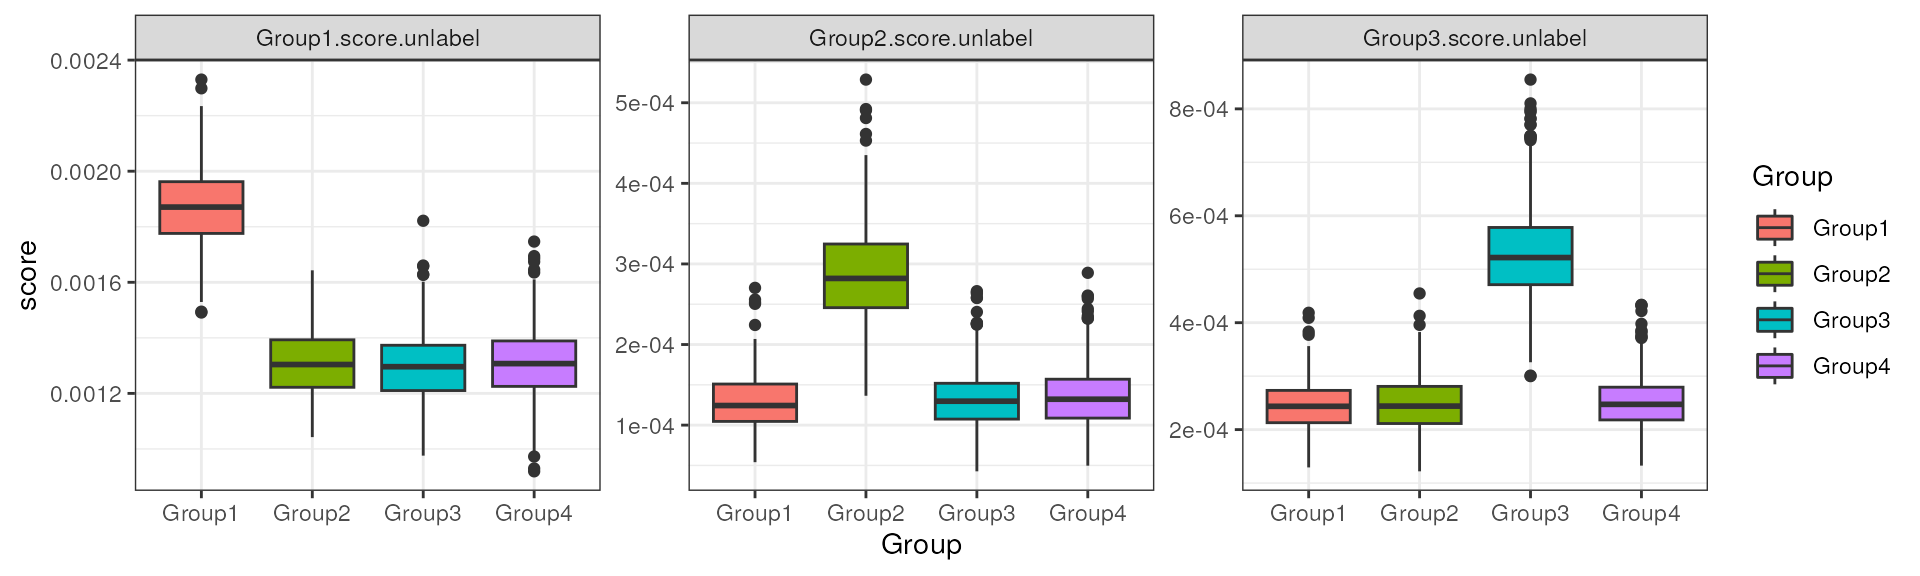
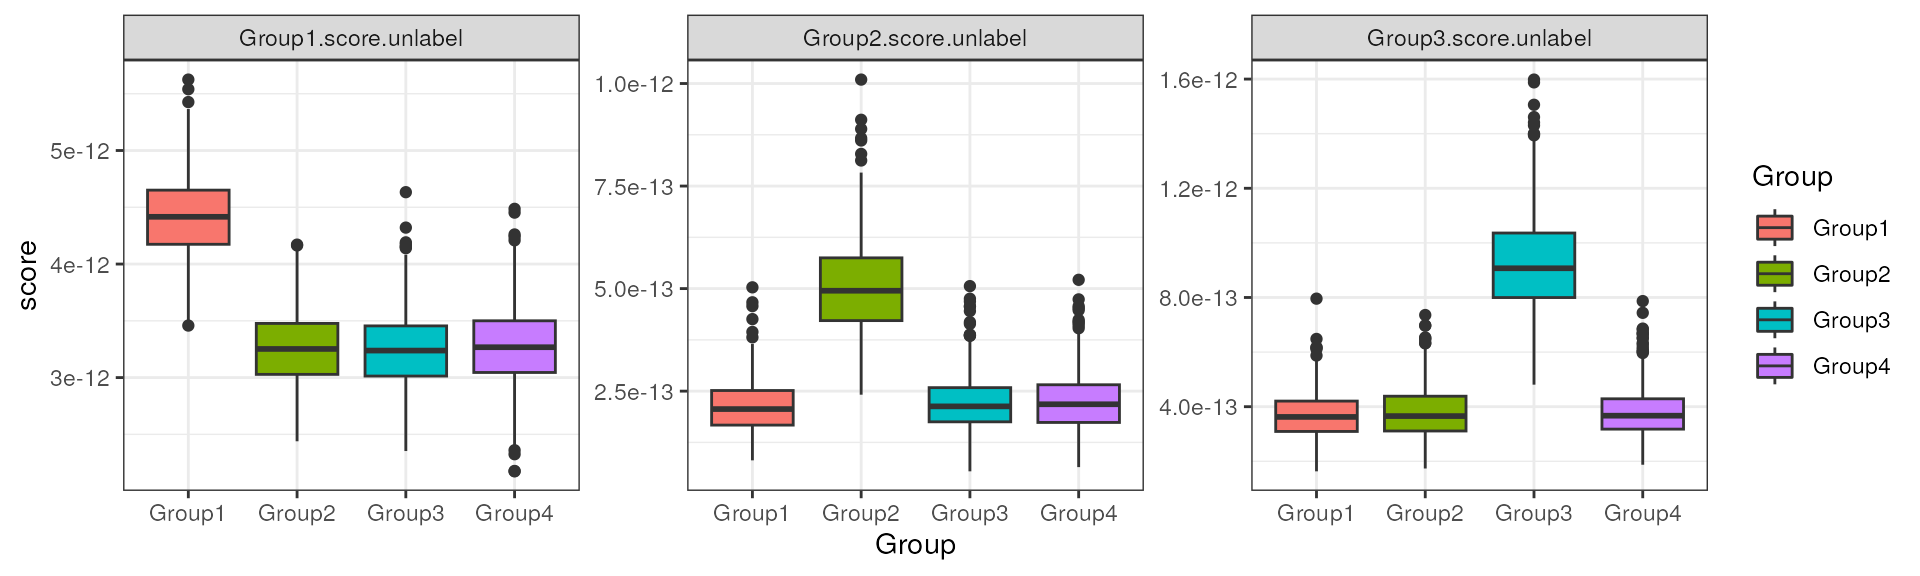
Deploying to gh-pages from @ DavisLaboratory/smartid@40390eaae6d5b5797ca767cd1bad2e35029c2fe1 🚀

diff --git a/articles/smartid_Demo.html b/articles/smartid_Demo.html
@@ -89,7 +89,7 @@ Biology, University of Melbourne, Parkville, VIC 3010,
 Australia<br><a class="author_email" href="mailto:#"></a><a href="mailto:chen.j@wehi.edu.au" class="email">chen.j@wehi.edu.au</a>
       </address>
                   
-            <h4 data-toc-skip class="date">26 Mar 2024</h4>
+            <h4 data-toc-skip class="date">28 Mar 2024</h4>
       
       <small class="dont-index">Source: <a href="https://github.com/DavisLaboratory/smartid/blob/HEAD/vignettes/smartid_Demo.Rmd" class="external-link"><code>vignettes/smartid_Demo.Rmd</code></a></small>
       <div class="hidden name"><code>smartid_Demo.Rmd</code></div>
@@ -233,21 +233,22 @@ each function, e.g. <code>?smartid:::idf</code>.</p>
 <span class="math inline">\(\mathbf{IDF_i} =
 log(1+\frac{n}{n_i+1}),\)</span> <span class="math inline">\(\mathbf{IAE_i} = log(1+\frac{n}{\hat
 N_{i,j}+1})\)</span></p>
-<p><span class="math inline">\(\mathbf{where\ N_{i,j}\ is\ the\ counts\
-of\ feature\ i\ in\ cell\ j;\ \hat N_{i,j}\ is\ max(0,\ N_{i,j} -
-threshold)};\)</span> <span class="math inline">\(\mathbf{\ n\ is\
-total\ counts\ of\ documents(cells);\ n_i\ is\ \sum_{j = 1}^{n}
-sign(N_{i,j} &gt; threshold)}\)</span></p>
+<p>Where <span class="math inline">\(N_{i,j}\)</span> is the counts of
+feature <span class="math inline">\(i\)</span> in cell <span class="math inline">\(j\)</span>; <span class="math inline">\(\hat
+N_{i,j}\)</span> is <span class="math inline">\(max(0,N_{i,j}-threshold)\)</span>; <span class="math inline">\(n\)</span> is the total number of
+documents(cells); <span class="math inline">\(n_i\)</span> is <span class="math inline">\(\sum_{j = 1}^{n} sign(N_{i,j} &gt;
+threshold)\)</span>.</p>
 <p>Here for labeled data, we can choose logTF * IDF_prob * IAE_prob for
 marker identification.</p>
-<p><span class="math inline">\(\mathbf{score}=logTF*IDF_{prob}*IAE_{prob}\)</span></p>
+<p><span class="math display">\[\mathbf{score}=logTF*IDF_{prob}*IAE_{prob}\]</span></p>
 <p>The probability version of IDF can be termed as: <span class="math inline">\(\mathbf{IDF_{i,j}} = log(1+\frac{\frac{n_{i,j\in
 D}}{n_{j\in D}}}{max(\frac{n_{i,j\in \hat D}}{n_{j\in \hat D}})+
 e^{-8}}\frac{n_{i,j\in D}}{n_{j\in D}})\)</span></p>
 <p>And the probability version of IAE can be termed as: <span class="math inline">\(\mathbf{IAE_{i,j}} = log(1+\frac{mean(N_{i,j\in
 D})}{max(mean(N_{i,j\in \hat D}))+ e^{-8}}*mean(N_{i,j\in D}))\)</span>
-<span class="math inline">\(where\ D\ is\ the\ category\ of\ cell\ j;\
-\hat D\ is\ the\ category\ other\ than\ D.\)</span></p>
+Where <span class="math inline">\(D\)</span> is the category of cell
+<span class="math inline">\(j\)</span>; <span class="math inline">\(\hat
+D\)</span> is the category other than <span class="math inline">\(D\)</span>.</p>
 <p>TF here stands for gene frequency, which is similar to CPM, while IDF
 represents the inverse cell/sample frequency for scRNA-seq data, and IAE
 is the inverse average expression of each gene across all cells or cells
@@ -268,7 +269,7 @@ quite fast.</p>
 <span>  <span class="op">)</span></span>
 <span><span class="op">)</span></span>
 <span><span class="co">#&gt;    user  system elapsed </span></span>
-<span><span class="co">#&gt;   0.202   0.008   0.210</span></span>
+<span><span class="co">#&gt;   0.197   0.004   0.201</span></span>
 <span></span>
 <span><span class="co">## score and tf,idf,iae all saved</span></span>
 <span><span class="fu"><a href="https://rdrr.io/pkg/SummarizedExperiment/man/SummarizedExperiment-class.html" class="external-link">assays</a></span><span class="op">(</span><span class="va">data_sim</span><span class="op">)</span></span>
@@ -454,10 +455,10 @@ group.</p>
 score methods with no need for label information.</p>
 <p>Here we choose logTF * IDF_sd * IAE_sd for for gene-set scoring as a
 use case.</p>
-<p><span class="math inline">\(\mathbf{score}=logTF*IDF_{sd}*IAE_{sd}\)</span></p>
-<p><span class="math inline">\(where\ \mathbf{IDF} =
-log(1+sd(N_{i})*\frac{n}{n_i+1}),\)</span> <span class="math inline">\(\mathbf{IAE} =
-log(1+sd(N_{i})*\frac{n}{\sum_{j=1}^{n}N_{i,j}+1})\)</span></p>
+<p><span class="math display">\[\mathbf{score}=logTF*IDF_{sd}*IAE_{sd}\]</span></p>
+<p>Where <span class="math inline">\(\mathbf{IDF_i} =
+log(1+SD(TF_{i})*\frac{n}{n_i+1})\)</span>, <span class="math inline">\(\mathbf{IAE_i} =
+log(1+SD(TF_{i})*\frac{n}{\sum_{j=1}^{n}N_{i,j}+1})\)</span></p>
 <div class="section level3">
 <h3 id="score-samples-1">Score Samples<a class="anchor" aria-label="anchor" href="#score-samples-1"></a>
 </h3>
@@ -476,7 +477,7 @@ need for data pre-processing, which is quite convenient and fast.</p>
 <span>  <span class="op">)</span></span>
 <span><span class="op">)</span></span>
 <span><span class="co">#&gt;    user  system elapsed </span></span>
-<span><span class="co">#&gt;   0.149   0.007   0.157</span></span>
+<span><span class="co">#&gt;   0.181   0.016   0.197</span></span>
 <span></span>
 <span><span class="co">## new score is saved and tf,idf,iae all updated</span></span>
 <span><span class="fu"><a href="https://rdrr.io/pkg/SummarizedExperiment/man/SummarizedExperiment-class.html" class="external-link">assays</a></span><span class="op">(</span><span class="va">data_sim</span><span class="op">)</span></span>
@@ -603,7 +604,7 @@ group from all others.</p>
 <span><span class="co">#&gt;  [73] locfit_1.5-9.9            fs_1.6.3                 </span></span>
 <span><span class="co">#&gt;  [75] grid_4.4.0                tidyr_1.3.1              </span></span>
 <span><span class="co">#&gt;  [77] colorspace_2.1-0          nlme_3.1-164             </span></span>
-<span><span class="co">#&gt;  [79] GenomeInfoDbData_1.2.11   beeswarm_0.4.0           </span></span>
+<span><span class="co">#&gt;  [79] GenomeInfoDbData_1.2.12   beeswarm_0.4.0           </span></span>
 <span><span class="co">#&gt;  [81] BiocSingular_1.19.0       vipor_0.4.7              </span></span>
 <span><span class="co">#&gt;  [83] cli_3.6.2                 rsvd_1.0.5               </span></span>
 <span><span class="co">#&gt;  [85] textshaping_0.3.7         fansi_1.0.6              </span></span>

diff --git a/reference/iae_sd.html b/reference/iae_sd.html
@@ -63,7 +63,7 @@
     </div>
 
     <div id="ref-usage">
-    <div class="sourceCode"><pre class="sourceCode r"><code><span><span class="fu">iae_sd</span><span class="op">(</span><span class="va">expr</span>, features <span class="op">=</span> <span class="cn">NULL</span>, thres <span class="op">=</span> <span class="fl">0</span><span class="op">)</span></span></code></pre></div>
+    <div class="sourceCode"><pre class="sourceCode r"><code><span><span class="fu">iae_sd</span><span class="op">(</span><span class="va">expr</span>, features <span class="op">=</span> <span class="cn">NULL</span>, log <span class="op">=</span> <span class="cn">FALSE</span>, thres <span class="op">=</span> <span class="fl">0</span><span class="op">)</span></span></code></pre></div>
     </div>
 
     <div id="arguments">
@@ -74,6 +74,10 @@
 
 <dt>features</dt>
 <dd><p>vector, feature names or indexes to compute</p></dd>
+
+
+<dt>log</dt>
+<dd><p>logical, if to do log-transformation</p></dd>
 
 
 <dt>thres</dt>
@@ -88,17 +92,20 @@
     </div>
     <div id="details">
     <h2>Details</h2>
-    <p>$$\mathbf{IAE} = log(1+sd(N_{i})*\frac{n}{\sum_{j=1}^{n}N_{i,j}+1})$$</p>
+    <p>$$\mathbf{IAE} = log(1+sd(tf_{i})*\frac{n}{\sum_{j=1}^{n}max(0,N_{i,j})+1})$$
+where \(tf_i\) is the term frequency of feature \(i\), see details in
+<code><a href="tf.html">tf()</a></code>, \(n\) is the total number of cells and \(N_{i,j}\) is the counts
+of feature \(i\) in cell \(j\).</p>
     </div>
 
     <div id="ref-examples">
     <h2>Examples</h2>
     <div class="sourceCode"><pre class="sourceCode r"><code><span class="r-in"><span><span class="va">data</span> <span class="op">&lt;-</span> <span class="fu"><a href="https://rdrr.io/r/base/matrix.html" class="external-link">matrix</a></span><span class="op">(</span><span class="fu"><a href="https://rdrr.io/r/stats/Poisson.html" class="external-link">rpois</a></span><span class="op">(</span><span class="fl">100</span>, <span class="fl">2</span><span class="op">)</span>, <span class="fl">10</span>, dimnames <span class="op">=</span> <span class="fu"><a href="https://rdrr.io/r/base/list.html" class="external-link">list</a></span><span class="op">(</span><span class="fl">1</span><span class="op">:</span><span class="fl">10</span><span class="op">)</span><span class="op">)</span></span></span>
 <span class="r-in"><span><span class="fu">smartid</span><span class="fu">:::</span><span class="fu">iae_sd</span><span class="op">(</span><span class="va">data</span><span class="op">)</span></span></span>
-<span class="r-out co"><span class="r-pr">#&gt;</span>         1         2         3         4         5         6         7         8 </span>
-<span class="r-out co"><span class="r-pr">#&gt;</span> 0.4642937 0.5661016 0.4317557 0.6256180 0.6229501 0.3695086 0.5158592 0.3656119 </span>
-<span class="r-out co"><span class="r-pr">#&gt;</span>         9        10 </span>
-<span class="r-out co"><span class="r-pr">#&gt;</span> 0.4277004 0.6655675 </span>
+<span class="r-out co"><span class="r-pr">#&gt;</span>          1          2          3          4          5          6          7 </span>
+<span class="r-out co"><span class="r-pr">#&gt;</span> 0.02626549 0.03606052 0.02841552 0.03780853 0.03492224 0.02283198 0.02837679 </span>
+<span class="r-out co"><span class="r-pr">#&gt;</span>          8          9         10 </span>
+<span class="r-out co"><span class="r-pr">#&gt;</span> 0.02239204 0.02142708 0.04101447 </span>
 </code></pre></div>
     </div>
   </div>

diff --git a/reference/idf_sd.html b/reference/idf_sd.html
@@ -63,7 +63,7 @@
     </div>
 
     <div id="ref-usage">
-    <div class="sourceCode"><pre class="sourceCode r"><code><span><span class="fu">idf_sd</span><span class="op">(</span><span class="va">expr</span>, features <span class="op">=</span> <span class="cn">NULL</span>, thres <span class="op">=</span> <span class="fl">0</span><span class="op">)</span></span></code></pre></div>
+    <div class="sourceCode"><pre class="sourceCode r"><code><span><span class="fu">idf_sd</span><span class="op">(</span><span class="va">expr</span>, features <span class="op">=</span> <span class="cn">NULL</span>, log <span class="op">=</span> <span class="cn">FALSE</span>, thres <span class="op">=</span> <span class="fl">0</span><span class="op">)</span></span></code></pre></div>
     </div>
 
     <div id="arguments">
@@ -74,6 +74,10 @@
 
 <dt>features</dt>
 <dd><p>vector, feature names or indexes to compute</p></dd>
+
+
+<dt>log</dt>
+<dd><p>logical, if to do log-transformation</p></dd>
 
 
 <dt>thres</dt>
@@ -88,17 +92,20 @@
     </div>
     <div id="details">
     <h2>Details</h2>
-    <p>$$\mathbf{IDF_i} = log(1+sd(N_{i})*\frac{n}{n_i+1})$$</p>
+    <p>$$\mathbf{IDF_i} = log(1+sd(tf_{i})*\frac{n}{n_i+1})$$
+where \(tf_i\) is the term frequency of feature \(i\), see details in
+<code><a href="tf.html">tf()</a></code>, \(n\) is the total number of cells and \(n_i\) is the number of
+cells containing feature \(i\).</p>
     </div>
 
     <div id="ref-examples">
     <h2>Examples</h2>
     <div class="sourceCode"><pre class="sourceCode r"><code><span class="r-in"><span><span class="va">data</span> <span class="op">&lt;-</span> <span class="fu"><a href="https://rdrr.io/r/base/matrix.html" class="external-link">matrix</a></span><span class="op">(</span><span class="fu"><a href="https://rdrr.io/r/stats/Poisson.html" class="external-link">rpois</a></span><span class="op">(</span><span class="fl">100</span>, <span class="fl">2</span><span class="op">)</span>, <span class="fl">10</span>, dimnames <span class="op">=</span> <span class="fu"><a href="https://rdrr.io/r/base/list.html" class="external-link">list</a></span><span class="op">(</span><span class="fl">1</span><span class="op">:</span><span class="fl">10</span><span class="op">)</span><span class="op">)</span></span></span>
 <span class="r-in"><span><span class="fu">smartid</span><span class="fu">:::</span><span class="fu">idf_sd</span><span class="op">(</span><span class="va">data</span><span class="op">)</span></span></span>
-<span class="r-out co"><span class="r-pr">#&gt;</span>         1         2         3         4         5         6         7         8 </span>
-<span class="r-out co"><span class="r-pr">#&gt;</span> 0.8829972 1.1597035 0.8543715 1.0387709 1.1509044 0.7598136 0.7324272 0.7223904 </span>
-<span class="r-out co"><span class="r-pr">#&gt;</span>         9        10 </span>
-<span class="r-out co"><span class="r-pr">#&gt;</span> 0.8580582 0.9308210 </span>
+<span class="r-out co"><span class="r-pr">#&gt;</span>          1          2          3          4          5          6          7 </span>
+<span class="r-out co"><span class="r-pr">#&gt;</span> 0.06191538 0.10035735 0.06957992 0.07781064 0.08512022 0.05712326 0.04502422 </span>
+<span class="r-out co"><span class="r-pr">#&gt;</span>          8          9         10 </span>
+<span class="r-out co"><span class="r-pr">#&gt;</span> 0.05292170 0.05366416 0.06581973 </span>
 </code></pre></div>
     </div>
   </div>

diff --git a/reference/idf_prob.html b/reference/idf_prob.html
@@ -96,7 +96,10 @@
     </div>
     <div id="details">
     <h2>Details</h2>
-    <p>$$\mathbf{IDF_{i,j}} = log(1+\frac{\frac{n_{i,j\in D}}{n_{j\in D}}}{max(\frac{n_{i,j\in \hat D}}{n_{j\in \hat D}})+ e^{-8}}\frac{n_{i,j\in D}}{n_{j\in D}})$$</p>
+    <p>$$\mathbf{IDF_{i,j}} = log(1+\frac{\frac{n_{i,j\in D}}{n_{j\in D}}}{max(\frac{n_{i,j\in \hat D}}{n_{j\in \hat D}})+ e^{-8}}\frac{n_{i,j\in D}}{n_{j\in D}})$$
+where \(n_{i,j\in D}\) is the number of cells containing feature \(i\) in
+class \(D\), \(n_{j\in D}\) is the total number of cells in class \(D\),
+\(\hat D\) is the class except \(D\).</p>
     </div>
 
     <div id="ref-examples">

diff --git a/news/index.html b/news/index.html
@@ -73,6 +73,10 @@
 <h2 class="page-header" data-toc-text="0.99.3" id="smartid-0993">smartid 0.99.3<a class="anchor" aria-label="anchor" href="#smartid-0993"></a></h2>
 <ul><li>Bump R version dependency to &gt;= 4.4 and add details for TF, IDF, IAE functions.</li>
 </ul></div>
+    <div class="section level2">
+<h2 class="page-header" data-toc-text="0.99.4" id="smartid-0994">smartid 0.99.4<a class="anchor" aria-label="anchor" href="#smartid-0994"></a></h2>
+<ul><li>Add details for TF, IDF, IAE functions.</li>
+</ul></div>
   </div>
 
   <div class="col-md-3 hidden-xs hidden-sm" id="pkgdown-sidebar">

diff --git a/reference/iae_m.html b/reference/iae_m.html
@@ -88,7 +88,10 @@
     </div>
     <div id="details">
     <h2>Details</h2>
-    <p>$$\mathbf{IAE_{i,j}} = log(1+\frac{max_{\{i^{'}\in j\}}(n_{i^{'}})}{\sum_{j = 1}^{n} sign(N_{i,j} &gt; threshold)+1})$$</p>
+    <p>$$\mathbf{IAE_{i,j}} = log(1+\frac{max_{\{i^{'}\in j\}}(n_{i^{'}})}{\sum_{j = 1}^{n} max(0, N_{i,j} - threshold)+1})$$
+where \(i\) is the feature \(i\) and \(i^{'}\) is the feature except
+\(i\), \(N_{i,j}\) is the counts of feature \(i\) in cell \(j\), and
+\(n_{i^{'}}\) is \(\sum_{j = 1}^{n} sign(N_{i,j} &gt; threshold)\).</p>
     </div>
 
     <div id="ref-examples">

diff --git a/reference/idf_rf.html b/reference/idf_rf.html
@@ -96,7 +96,10 @@
     </div>
     <div id="details">
     <h2>Details</h2>
-    <p>$$\mathbf{IDF_{i,j}} = log(1+\frac{\frac{n_{i,j\in D}}{n_{j\in D}}}{max(\frac{n_{i,j\in \hat D}}{n_{j\in \hat D}})+ e^{-8}})$$</p>
+    <p>$$\mathbf{IDF_{i,j}} = log(1+\frac{\frac{n_{i,j\in D}}{n_{j\in D}}}{max(\frac{n_{i,j\in \hat D}}{n_{j\in \hat D}})+ e^{-8}})$$
+where \(n_{i,j\in D}\) is the number of cells containing feature \(i\) in
+class \(D\), \(n_{j\in D}\) is the total number of cells in class \(D\),
+\(\hat D\) is the class except \(D\).</p>
     </div>
 
     <div id="ref-examples">

diff --git a/reference/iae_igm.html b/reference/iae_igm.html
@@ -96,7 +96,10 @@
     </div>
     <div id="details">
     <h2>Details</h2>
-    <p>$$\mathbf{IGM_i} = log(1+\lambda\frac{max(mean(N_{i,j\in D})_{k})}{\sum_{k}^{K}(mean(N_{i,j\in D})_{k}*r_{k})+e^{-8}})$$</p>
+    <p>$$\mathbf{IGM_i} = log(1+\lambda\frac{max(mean(N_{i,j\in D})_{k})}{\sum_{k}^{K}(mean(N_{i,j\in D})_{k}*r_{k})+e^{-8}})$$
+where \(\lambda\) is the hyper parameter, \(N_{i,j\in D}\) is the counts
+of feature \(i\) in cell \(j\) within class \(D\), and \(r_k\) is the
+rank of \(mean(N_{i,j\in D})\).</p>
     </div>
 
     <div id="ref-examples">

diff --git a/reference/idf_igm.html b/reference/idf_igm.html
@@ -96,7 +96,10 @@
     </div>
     <div id="details">
     <h2>Details</h2>
-    <p>$$\mathbf{IGM_i} = log(1+\lambda\frac{max(n_{i,j\in D})_{k}}{\sum_{k}^{K}((n_{i,j\in D})_{k}*r_{k})+e^{-8}})$$</p>
+    <p>$$\mathbf{IGM_i} = log(1+\lambda\frac{max(n_{i,j\in D})_{k}}{\sum_{k}^{K}((n_{i,j\in D})_{k}*r_{k})+e^{-8}})$$
+where \(\lambda\) is the hyper parameter, \(n_{i,j\in D}\) is the number
+of cells containing feature \(i\) in class \(D\), \(r_k\) is the rank
+of \(n_{i,j\in D}\).</p>
     </div>
 
     <div id="ref-examples">

diff --git a/reference/iae_prob.html b/reference/iae_prob.html
@@ -96,7 +96,9 @@
     </div>
     <div id="details">
     <h2>Details</h2>
-    <p>$$\mathbf{IAE_{i,j}} = log(1+\frac{mean(N_{i,j\in D})}{max(mean(N_{i,j\in \hat D}))+ e^{-8}}*mean(N_{i,j\in D}))$$</p>
+    <p>$$\mathbf{IAE_{i,j}} = log(1+\frac{mean(N_{i,j\in D})}{max(mean(N_{i,j\in \hat D}))+ e^{-8}}*mean(N_{i,j\in D}))$$
+where \(N_{i,j\in D}\) is the counts of feature \(i\) in cell \(j\)
+within class \(D\), and \(\hat D\) is the class except \(D\).</p>
     </div>
 
     <div id="ref-examples">

diff --git a/reference/idf_m.html b/reference/idf_m.html
@@ -88,7 +88,10 @@
     </div>
     <div id="details">
     <h2>Details</h2>
-    <p>$$\mathbf{IDF_{i,j}} = log(\frac{max_{\{i^{'}\in j\}}(n_{i^{'}})}{n_i+1})$$</p>
+    <p>$$\mathbf{IDF_{i,j}} = log(\frac{max_{\{i^{'}\in j\}}(n_{i^{'}})}{n_i+1})$$
+where \(i\) is the feature \(i\) and \(i^{'}\) is the feature except
+\(i\), \(n_i\) is the number of cells containing feature i, and
+\(n_{i^{'}}\) is the number of cells containing feature \(i^{'}\).</p>
     </div>
 
     <div id="ref-examples">

diff --git a/reference/iae_rf.html b/reference/iae_rf.html
@@ -96,7 +96,9 @@
     </div>
     <div id="details">
     <h2>Details</h2>
-    <p>$$\mathbf{IAE} = log(1+\frac{mean(N_{i,j\in D})}{max(mean(N_{i,j\in \hat D}))+ e^{-8}})$$</p>
+    <p>$$\mathbf{IAE} = log(1+\frac{mean(N_{i,j\in D})}{max(mean(N_{i,j\in \hat D}))+ e^{-8}})$$
+where \(N_{i,j\in D}\) is the counts of feature \(i\) in cell \(j\)
+within class \(D\), and \(\hat D\) is the class except \(D\).</p>
     </div>
 
     <div id="ref-examples">
